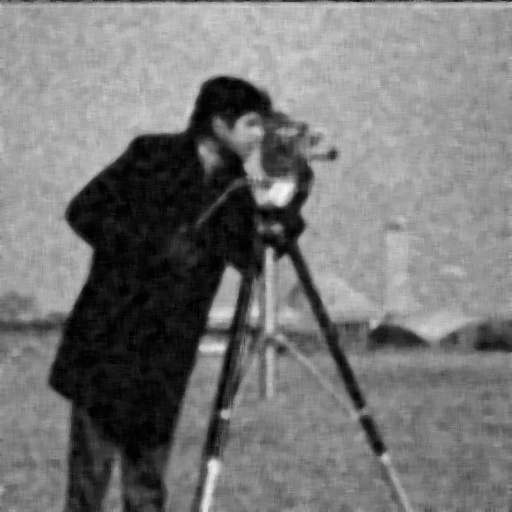
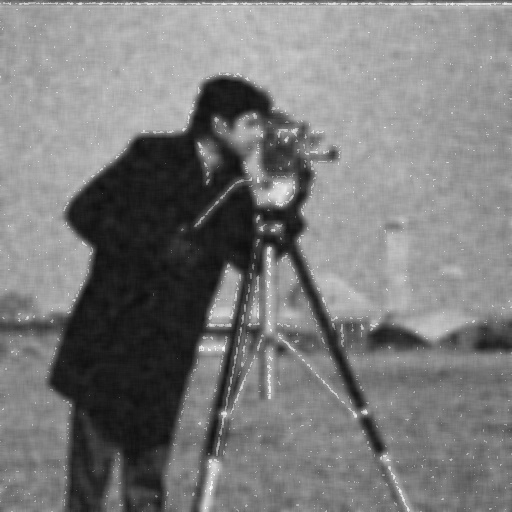
fix convolution to deal with bigger kernel

diff --git a/DIP_2/Dip2.cpp b/DIP_2/Dip2.cpp
@@ -18,32 +18,22 @@ Mat Dip2::spatialConvolution(Mat& src, Mat& kernel){
 
    // TO DO !!
 	Mat outputImage = src.clone();
-	//outputImage.zeros(src.size, src.type());
-
-	//cout << src.rows << "/" << src.cols << endl;
-
-	for (int y = 0; y < src.rows; y++){
-		for (int x = 0; x < src.cols; x++){
+	int border = kernel.cols / 2; //assume it is symmetry		
+	Mat src_buf(src.rows + border*2, src.cols + border*2, src.depth()); //prepare for matrix with border
+	copyMakeBorder(src, src_buf, border, border,border, border, BORDER_REPLICATE); //extend border by replicating rows and cols
+	//flip kernel along x and y axis
+	flip(kernel, kernel, -1);
+	for (int y = border; y < src_buf.rows-border; y++){
+		for (int x = border; x < src_buf.cols-border; x++){
 			float convolution = 0.;
-
 			for (int j = 0; j < kernel.rows; j++){
 				for (int i = 0; i < kernel.cols; i++){
-					// boundary check 
-					if (x-(i-1) < 0 || y-(j-1) > src.rows || y-(j-1) < 0 || x-(i-1) > src.cols){
-						convolution += 0. * kernel.at<float>(j, i);
-					}
-					else{
-						convolution += src.at<float>(y - (j-1), x - (i-1))*kernel.at<float>(j, i);
-					}
+					convolution += src_buf.at<float>(y - (kernel.rows/2) + j, x - (kernel.cols/2) + i)*kernel.at<float>(j, i);
 				}
 			}
-			outputImage.at<float>(y, x) = convolution;// / (kernel.rows*kernel.cols);
-			//cout << (int)src.at<float>(y, x) << ":";
-			//cout << (int)outputImage.at<float>(y, x) << " / ";
-			//if (x == 8) cout << endl;
+			outputImage.at<float>(y-border, x-border) = convolution;
 		}
 	}
-
 	return outputImage;
 
 }
@@ -56,8 +46,9 @@ kSize:   window size used by local average
 return:  filtered image
 */
 Mat Dip2::averageFilter(Mat& src, int kSize){
- Mat kernel = Mat::ones( kSize, kSize, CV_32F )/ (float)(kSize*kSize); 
-return spatialConvolution(src, kernel);
+	Mat kernel = Mat::ones( kSize, kSize, src.type()); 
+	Mat outputImage = spatialConvolution(src, kernel);
+	return outputImage / (float)(kSize * kSize);
 }
 
 // the adaptive filter
@@ -70,14 +61,14 @@ return:     filtered image
 */
 Mat Dip2::adaptiveFilter(Mat& src, int kSize, double threshold){
    int local_kSize = 3;
-   Mat mat_local_avg = averageFilter(src, 3);
    Mat mat_avg = averageFilter(src, kSize);
+   Mat mat_local_avg = averageFilter(src, local_kSize);
 	
    Mat dst = Mat::zeros( src.size(), src.type() ); 
    for (int x = 0; x < src.cols; x++){
 	for (int y = 0; y < src.rows; y++){	
-			if (mat_local_avg.at<float>(y,x) - mat_avg.at<float>(y,x) < threshold)
-				dst.at<float>(y,x) = mat_avg.at<float>(y,x);
+			if (mat_local_avg.at<float>(y,x) - mat_avg.at<float>(y,x) < threshold){
+				dst.at<float>(y,x) = mat_avg.at<float>(y,x);}
 			else
 				dst.at<float>(y,x) = mat_local_avg.at<float>(y,x);
 	} 
@@ -181,7 +172,7 @@ void Dip2::run(void){
 	// ==> try also "adaptive" (and if implemented "bilateral")
 	cout << "reduce noise" << endl;
 	Mat restorated1 = noiseReduction(noise1, "median", 5);
-	Mat restorated2 = noiseReduction(noise2, "median", 9);
+	Mat restorated2 = noiseReduction(noise2, "adaptive", 9, 40);
 	cout << "done" << endl;
 	  
 	// save images
@@ -281,16 +272,14 @@ void Dip2::generateNoisyImages(string fname){
    threshold(tmp1,tmp1,0,0,CV_THRESH_TOZERO);
    // save image
    imwrite("noiseType_2.jpg", tmp1);
-
-	cout << "done" << endl;
-	cout << "Please run now: dip2 restorate" << endl;
-
+   cout << "done" << endl;
+   cout << "Please run now: dip2 restorate" << endl;
 }
 
 // function calls some basic testing routines to test individual functions for correctness
 void Dip2::test(void){
 
-	test_spatialConvolution();
+   test_spatialConvolution();
    test_averageFilter();
    test_medianFilter();
    test_adaptiveFilter();
@@ -503,7 +492,7 @@ void Dip2::test_adaptiveFilter(void){
                       {0, 0, 0, 0, 0, 0, 0, 0, 0}};
    for(int y=2; y<6; y++){
       for(int x=2; x<6; x++){
-         if (abs(output.at<float>(y,x) - ref[y][x]) > 0.0001){
+         if (abs(output.at<float>(y,x) - ref[y][x]) > 0.0001){	  
             cout << "ERROR: Dip2::adaptiveFilter(): Result contains wrong values!" << endl;
             return;
          }
@@ -511,7 +500,7 @@ void Dip2::test_adaptiveFilter(void){
    }
    for(int y=1; y<7; y++){
       for(int x=1; x<7; x++){
-         if (abs(output2.at<float>(y,x) - ref2[y][x]) > 0.0001){
+         if (abs(output2.at<float>(y,x) - ref2[y][x]) > 0.0001){	    		
             cout << "ERROR: Dip2::adaptiveFilter(): Result contains wrong values!" << endl;
             return;
          }
